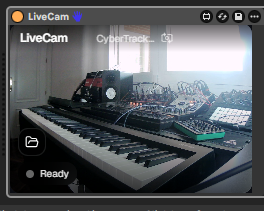
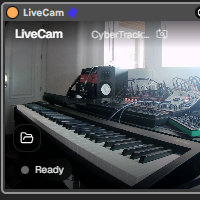
Update documentation

diff --git a/ARCHITECTURE.md b/ARCHITECTURE.md
@@ -2,7 +2,7 @@
 
 This document covers everything needed to understand, build, and maintain the LiveCam device from source. The project is open source under the MIT license.
 
-**Get the pre-built plugin:** [alienmindzzz.gumroad.com/l/livecam](https://alienmindzzz.gumroad.com/l/livecam) — buy me a coffee! ☕
+**Get the pre-built plugin:** [alienmindzzz.gumroad.com/l/livecam](https://alienmindzzz.gumroad.com/l/livecam) - buy me a coffee! ☕
 
 ---
 